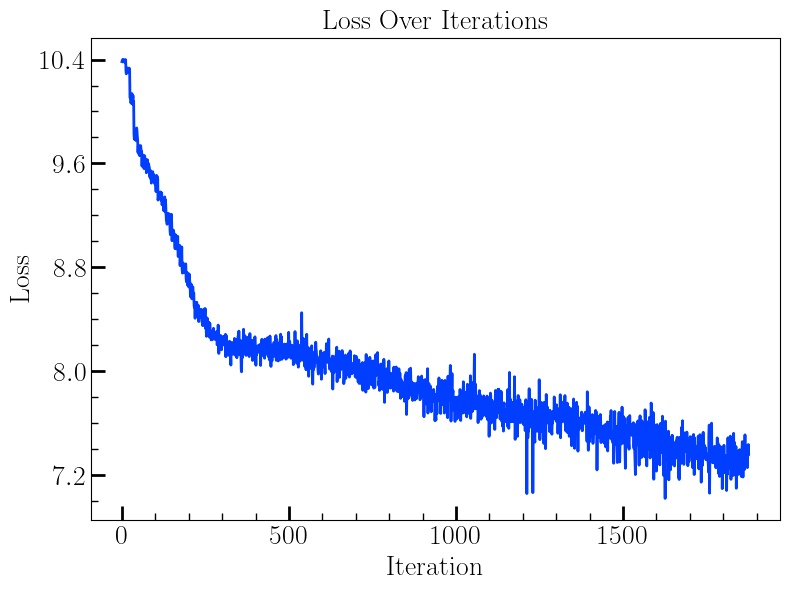
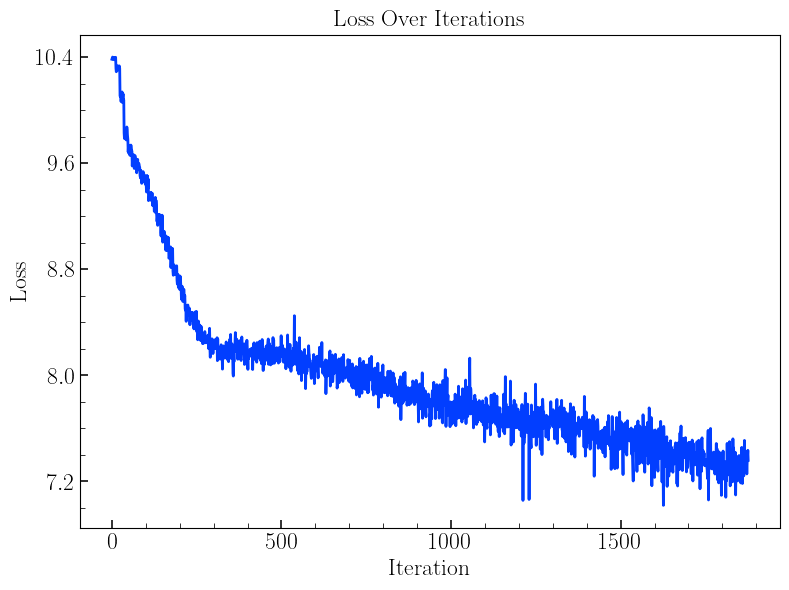
sci ticker

diff --git a/myplotstyle/myplotstyle.py b/myplotstyle/myplotstyle.py
@@ -1,14 +1,15 @@
 import seaborn as sns
 import matplotlib.pyplot as plt
-from matplotlib.ticker import MaxNLocator, AutoMinorLocator
+from matplotlib.ticker import MaxNLocator, AutoMinorLocator,ScalarFormatter
 from itertools import cycle
+import numpy as np
 
 # 设置字体和启用 LaTeX
 plt.rcParams['font.family'] = 'Times New Roman'
 plt.rcParams['text.usetex'] = True
 
 class AcademicPlot(object):
-    def __init__(self, ax=None, nrows=1, ncols=1,figsize=(8, 6), tick_count=5,fontsize = 20,theme='bright'):
+    def __init__(self, ax=None, nrows=1, ncols=1,figsize=(8, 6), tick_count=5,fontsize = 17,theme='bright'):
         if ax is not None:
             self.fig = ax.figure
             self.ax = ax
@@ -50,8 +51,8 @@ class AcademicPlot(object):
             ax.xaxis.set_major_locator(MaxNLocator(tick_count))
             ax.yaxis.set_major_locator(MaxNLocator(tick_count))
 
-            ax.tick_params(axis='both', which='major', length=self.fontsize/2, width=self.fontsize/10, direction='in')
-            ax.tick_params(axis='both', which='minor', length=self.fontsize/4, width=self.fontsize/20, direction='in')
+            ax.tick_params(axis='both', which='major', length=self.fontsize/3, width=self.fontsize/15, direction='in')
+            ax.tick_params(axis='both', which='minor', length=self.fontsize/5, width=self.fontsize/30, direction='in')
 
             for label in ax.get_xticklabels() + ax.get_yticklabels():
                 label.set_fontsize(self.fontsize)
@@ -88,8 +89,6 @@ class AcademicPlot(object):
         if ax is None:
             ax = self.ax
         ax.set_ylabel(ylabel, fontsize=self.fontsize)
-    
-    
 
     def scatter(self, x, y, label=None, marker=None, color=None, is_filled=True, markersize=None,ax=None):
         if ax is None:
@@ -158,11 +157,23 @@ class AcademicPlot(object):
         cbar = self.fig.colorbar(contour, ax=self.ax)
         cbar.set_label(colorbar_label)
         return contour
+    
+    def enable_scientific_notation(self, use_sci_notation=True, axis='both',ax=None):
+        if ax is None:
+            ax = self.ax
+
+        if axis in ['y', 'both']:
+            ax.ticklabel_format(style='sci', axis='y', scilimits=(-3, 4))
+            ax.yaxis.offsetText.set_fontsize(self.fontsize)  # 调整y轴科学记数法标签的字体大小
+
+        if axis in ['x', 'both']:
+            ax.ticklabel_format(style='sci', axis='x', scilimits=(-3, 4))
+            ax.xaxis.offsetText.set_fontsize(self.fontsize)  # 调整x轴科学记数法标签的字体大小
 
     def show(self):
         plt.legend(frameon=False,fontsize=self.fontsize,loc='best')
         plt.tight_layout()
-        self.fig.set_size_inches(8, 6)  # 设置图形的尺寸为8x6英寸
+        self.fig.set_size_inches(self.figsize[0], self.figsize[1])
         plt.show()
         
     def savefig(self, filename):

diff --git a/LLM/lit-llama-Loss.py b/LLM/lit-llama-Loss.py
@@ -1,6 +1,14 @@
 import numpy as np
 from myplotstyle import AcademicPlot
 import re
+import sys
+
+# 检查是否有命令行参数传入
+if len(sys.argv) > 1:
+    file_path = sys.argv[1]  # 使用命令行指定的文件
+else:
+    file_path = './log.txt'  # 如果没有指定文件，则在当前目录查找opt_IPOPT.txt
+
 
 def parse_log(file_path):
     iter_nums = []
@@ -21,12 +29,15 @@ def parse_log(file_path):
 
     return iter_nums, losses
 
-log_file = '/data/Data/LeonRho/llm_scripts/lit-llama/lnhang_scripts/log.txt'
-iter_nums, losses = parse_log(log_file)
+if __name__ == "__main__":
+    iter_nums, losses = parse_log(file_path)
 
-plot = AcademicPlot(figsize=(8,6))
-plot.plot(iter_nums, losses)
-plot.set_title("Loss Over Iterations")
-plot.set_xlabel("Iteration")
-plot.set_ylabel("Loss")
-plot.savefig('loss.png')
+    plot = AcademicPlot(figsize=(8,6))
+    plot.plot(iter_nums, losses)
+    plot.set_title("Loss Over Iterations")
+    plot.set_xlabel("Iteration")
+    plot.set_ylabel("Loss")
+    plot.enable_scientific_notation(axis='both')
+
+    plot.show()
+    plot.savefig('loss.png')
